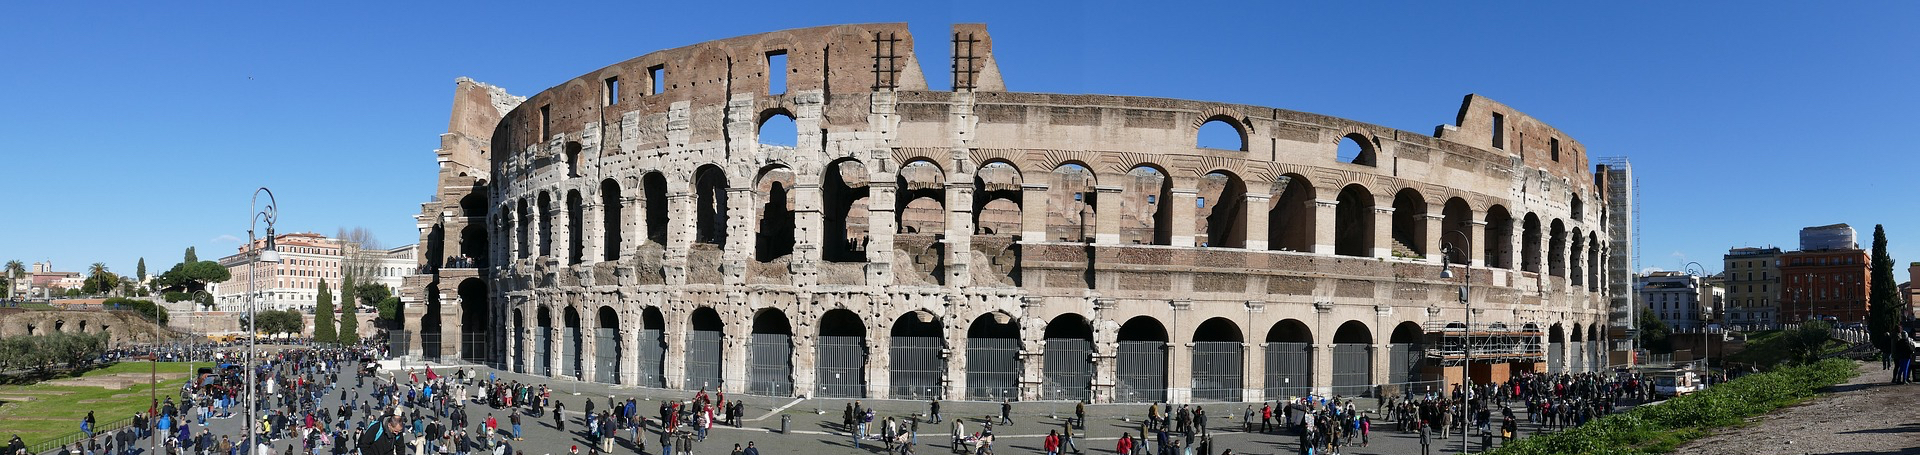
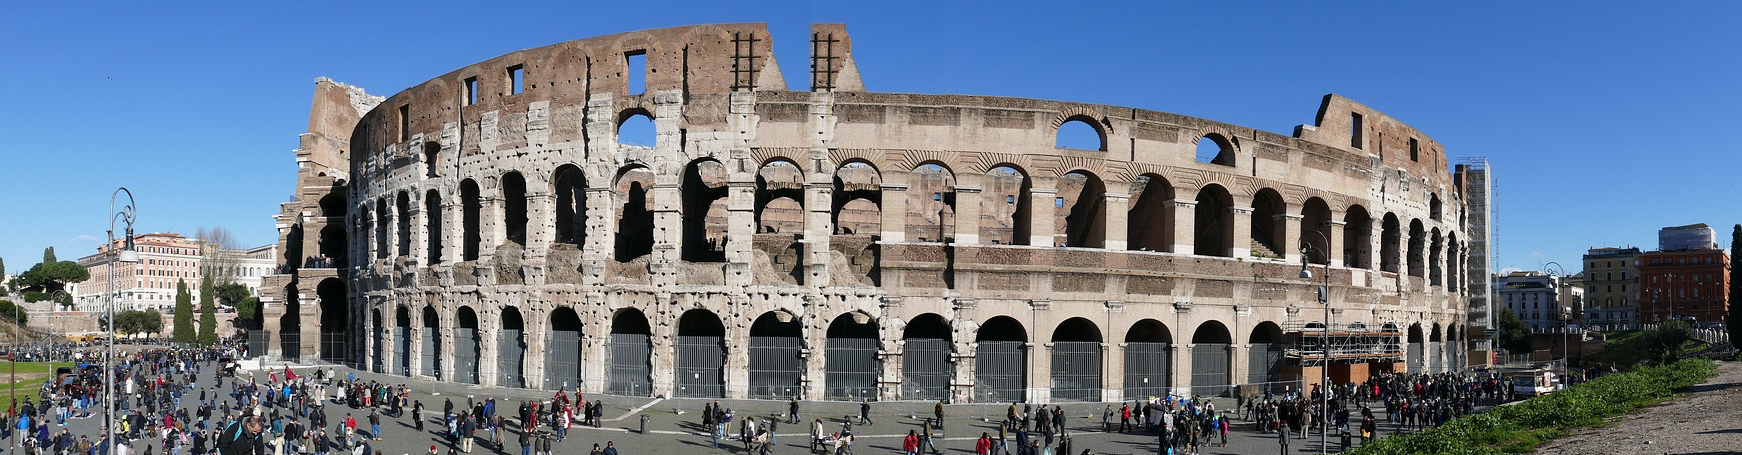
Adds image for history and gladiator page. Alters home page image

diff --git a/gladiators.html b/gladiators.html
@@ -41,16 +41,17 @@
         </nav>
     </header>
     <section>
-        <div></div>
+        <div id="gladiator-image"></div>
     </section>
+    <br>
     <section id="gladiator-text">
-        <h1>Gladiators</h1>
         <div>
             In ancient Rome Gladiators were professional combatants who traditionally performed at funerals. The idea
             being that the deceased would have armed fighters to bring with them to the afterlife. This is originally
             why fights were to the death.Gladiator shows originally started with a few fighters and lasted only a few
             days but by the time of Emperor Titus and the Colosseum Gladiator shows could go for over a hundred days
             with thousands of fighters.
+            <br>
 
             <h2>Types of Gladiators</h2>
             <br>

diff --git a/assets/css/style.css b/assets/css/style.css
@@ -122,6 +122,7 @@ h1,h2{
     justify-content: space-evenly;
     align-items: flex-start;
     
+    
  }
 #history-text{
     padding: 0 40px;
@@ -130,10 +131,26 @@ line-height: 20px;
 
     
 }
+
+
 #gladiator-text{
     padding: 0 40px;
     margin: auto;
 line-height: 20px;
 
     
+}
+#history-image{
+    background: url(../images/colosseum-history.jpg)  no-repeat center center;;
+    max-width:100%;
+    min-height:600px;
+    object-fit: contain;
+
+}
+#gladiator-image{
+    background: url(../images/gladiator-helmet.jpg)  no-repeat center center;;
+    max-width:100%;
+    min-height:600px;
+    object-fit: contain;
+
 }

diff --git a/history.html b/history.html
@@ -41,7 +41,7 @@
         </nav>
     </header>
     <section>
-        <div></div>
+        <div id="history-image"></div>
     </section>
     <section id="history-text">
         
